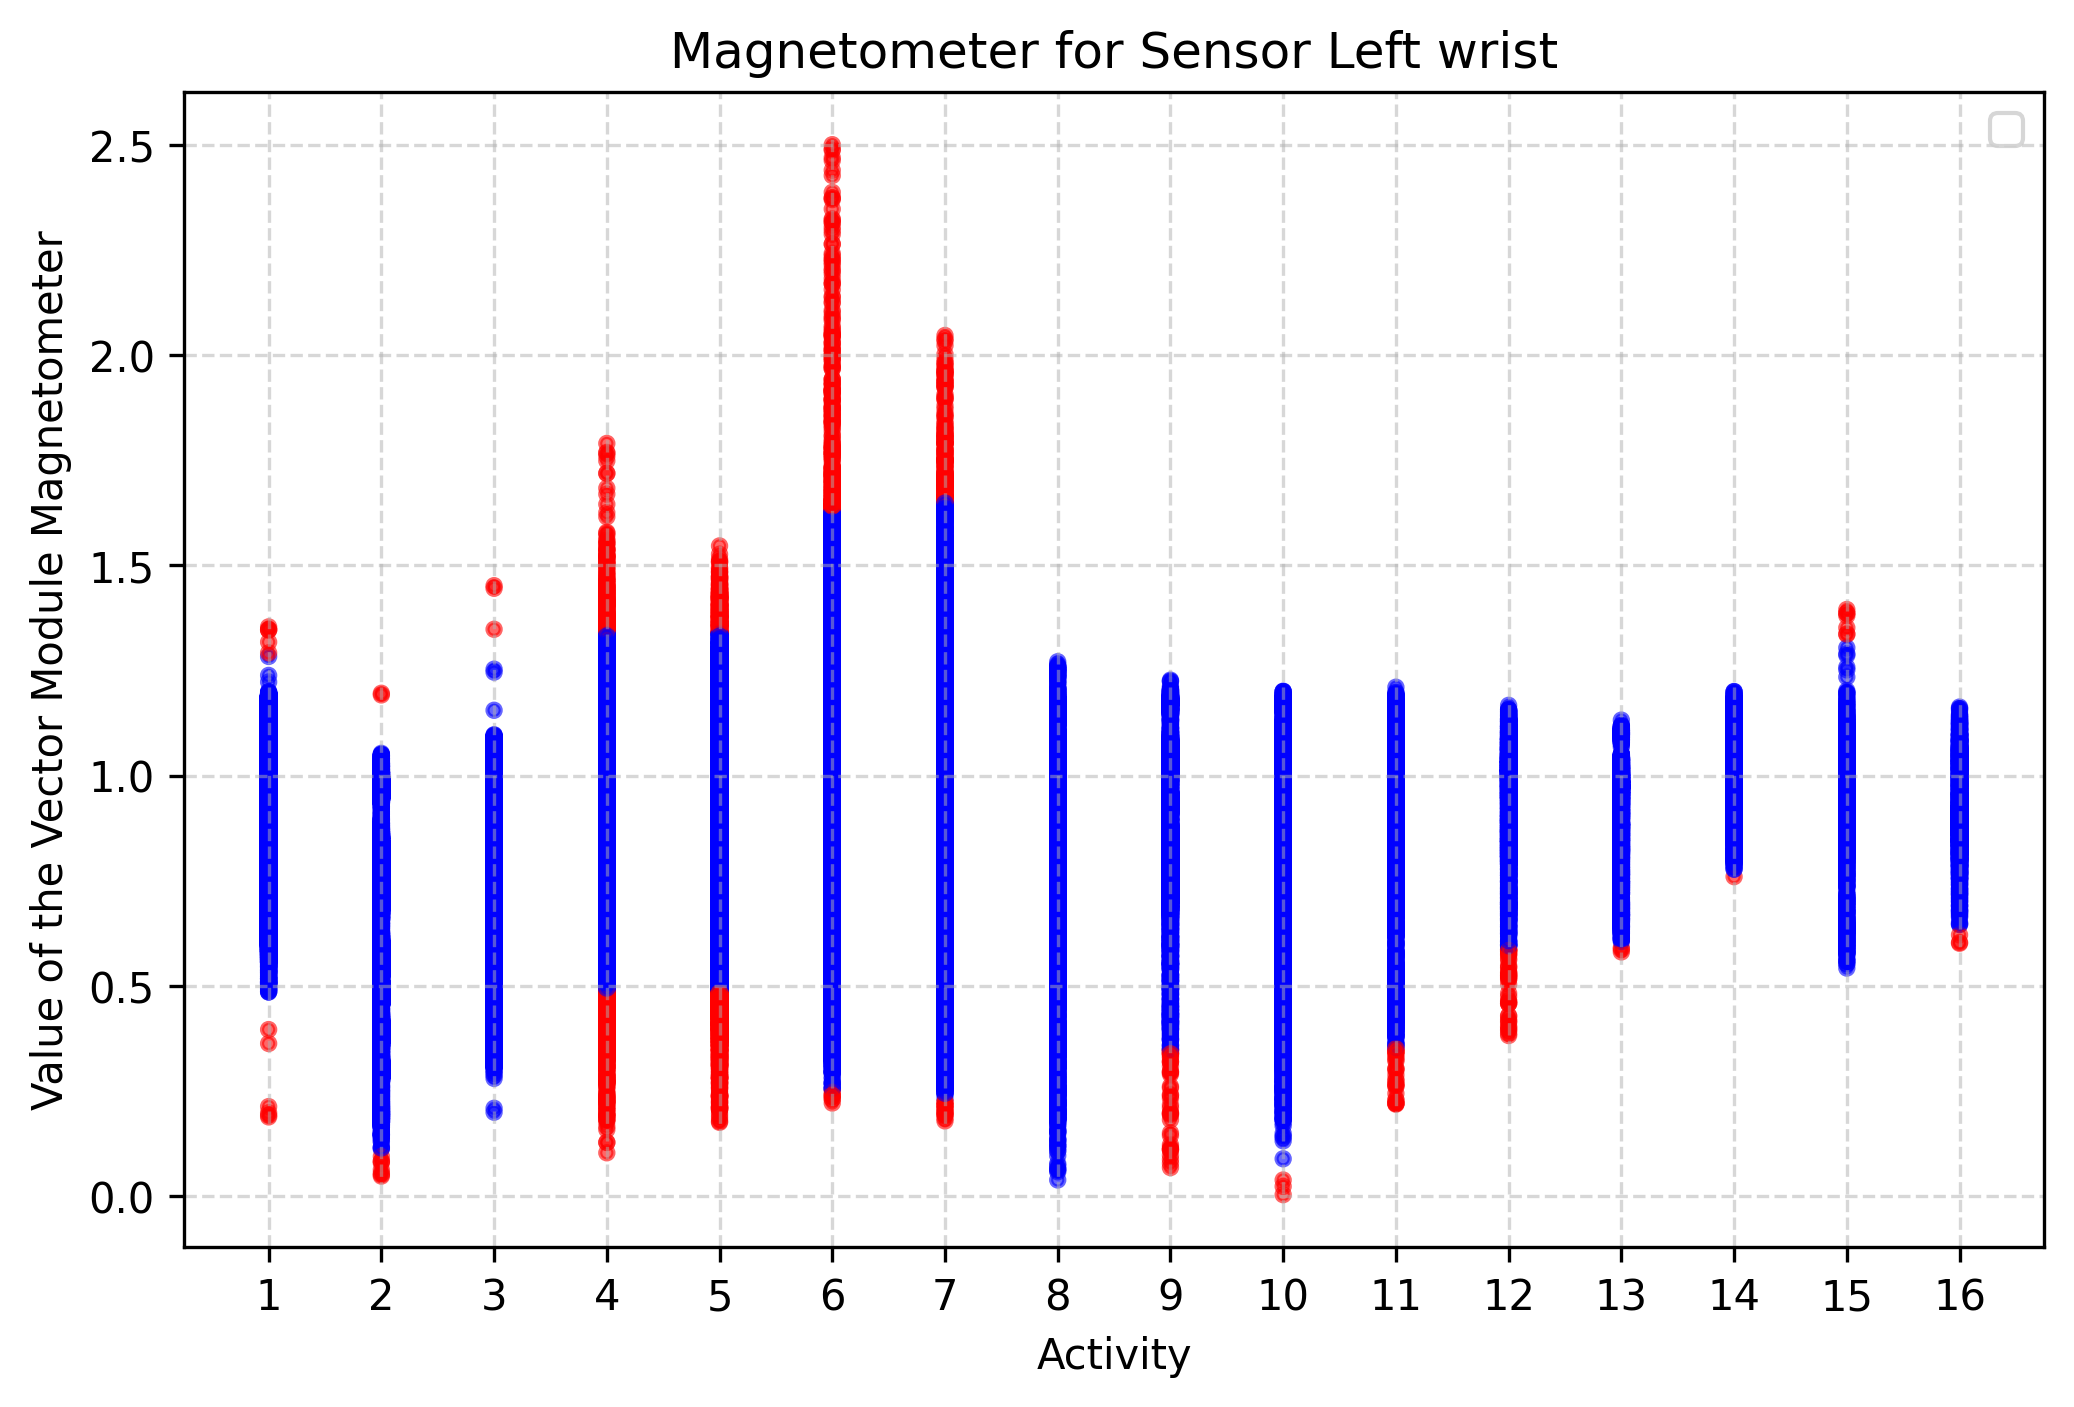
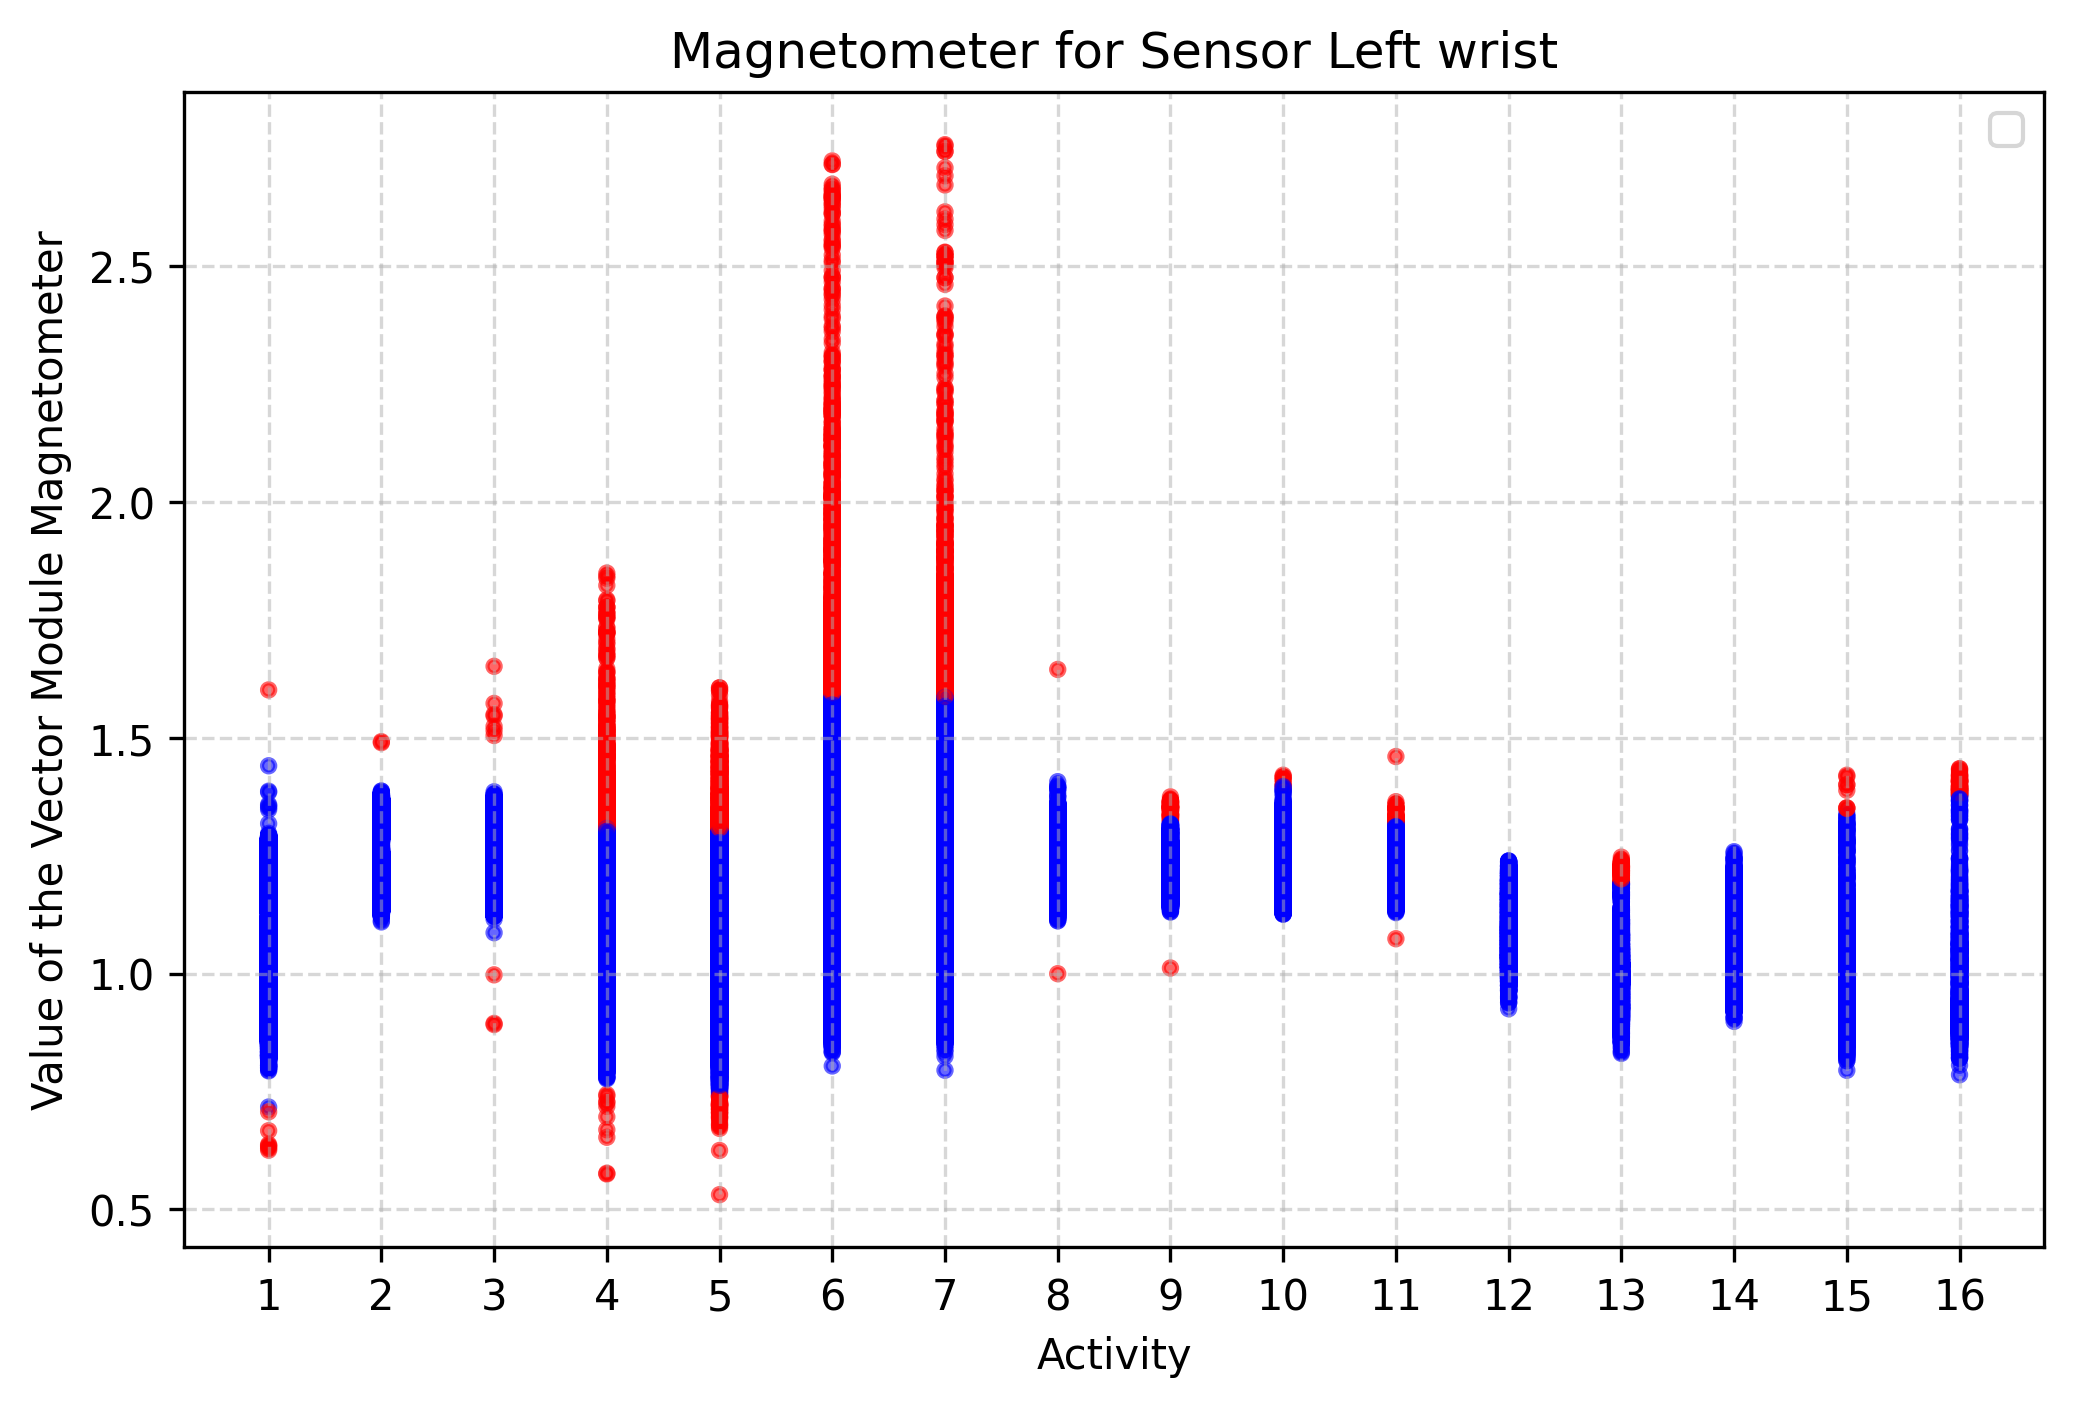
imagens plots atualizados

diff --git a/createIMG.py b/createIMG.py
@@ -1,0 +1,46 @@
+from PIL import Image
+import os
+
+# Caminho da pasta com as imagens
+folder_path = r"./plots/ex3_1" 
+# folder_path = r"./plots/ex3_4" 
+
+# Lista todos os arquivos de imagem da pasta
+im_paths = [f for f in os.listdir(folder_path) if f.lower().endswith(('.png', '.jpg', '.jpeg'))]
+
+# Organiza as imagens por tipo (ACC, GYR, MAG)
+# 3_1
+acc_images = sorted([f for f in im_paths if 'vector0' in f])
+gyr_images = sorted([f for f in im_paths if 'vector1' in f])
+mag_images = sorted([f for f in im_paths if 'vector2' in f])
+
+# 3_4
+# acc_images = sorted([f for f in im_paths if 'Accelerometer' in f])
+# gyr_images = sorted([f for f in im_paths if 'Gyroscope' in f])
+# mag_images = sorted([f for f in im_paths if 'Magnetometer' in f])
+
+# Agora queremos **colunas = variáveis**, linhas = sensores
+columns = [acc_images, gyr_images, mag_images]
+
+# Número de linhas e colunas
+cols = len(columns)                 # 3 variáveis
+rows = max(len(col) for col in columns)  # número de sensores
+
+# Pega tamanho da primeira imagem como referência
+w, h = Image.open(os.path.join(folder_path, acc_images[0])).size
+
+# Cria imagem vazia para a grade
+new_im = Image.new('RGB', (cols * w, rows * h))
+
+# Preenche a grade
+for col_index, col in enumerate(columns):
+    for row_index, filename in enumerate(col):
+        img = Image.open(os.path.join(folder_path, filename))
+        img = img.resize((w, h))  # garante mesmo tamanho
+        x = col_index * w         # coluna → eixo x
+        y = row_index * h         # sensor → eixo y
+        new_im.paste(img, (x, y))
+
+# Salva e mostra
+new_im.save(os.path.join(folder_path, "grid_sensores_colunas.png"))
+new_im.show()

diff --git a/mainActivity.py b/mainActivity.py
@@ -235,11 +235,11 @@ def show_outliers(start_idx, k, title):
     return
 
 def show_outliers(start_idx, k, title, plot = True):
-    sensors_list = create_list_by_sensor()
+    # sensors_list = create_list_by_sensor()
     for s in range(NUM_SENSORS):
         print(f"\tSensor {titles_sensors[s]}")
         colors = []
-        this_sensor = sensors_list[s]
+        this_sensor = sensors_data[s]
         y = calculateModule(this_sensor, start_idx, start_idx + 2)
         x = this_sensor[:,-1]   # activity value
         outliers_mask = z_scores(y, k)
@@ -746,7 +746,7 @@ def main():
 
     # EX 3.1
 
-    #num_outliers_per_sensor = boxPlot_modules_3(plot = False)  #This is the right one
+    num_outliers_per_sensor = boxPlot_modules_3(plot = False)  #This is the right one
 
     #print(num_outliers_per_sensor)
     
@@ -759,7 +759,7 @@ def main():
     # EX 3.4
     k = 3       # 3 ; 3.5 ; 4
 
-    #ex_3_4(k, plot = False)
+    ex_3_4(k, plot = False)
 
     # EX 3.6
     #centroids, labels, distances = kmeans(individuals[0][0][:, 1:4], 16, 100, 1e-4, 40) #Usámos o número de atividades para o número de clusters
@@ -798,7 +798,7 @@ def main():
     # errors = cross_validation(all_modules, p_values, 5)
 
     # EX 4.1
-    ex_4_1()
+    #ex_4_1()
 
     return
 
